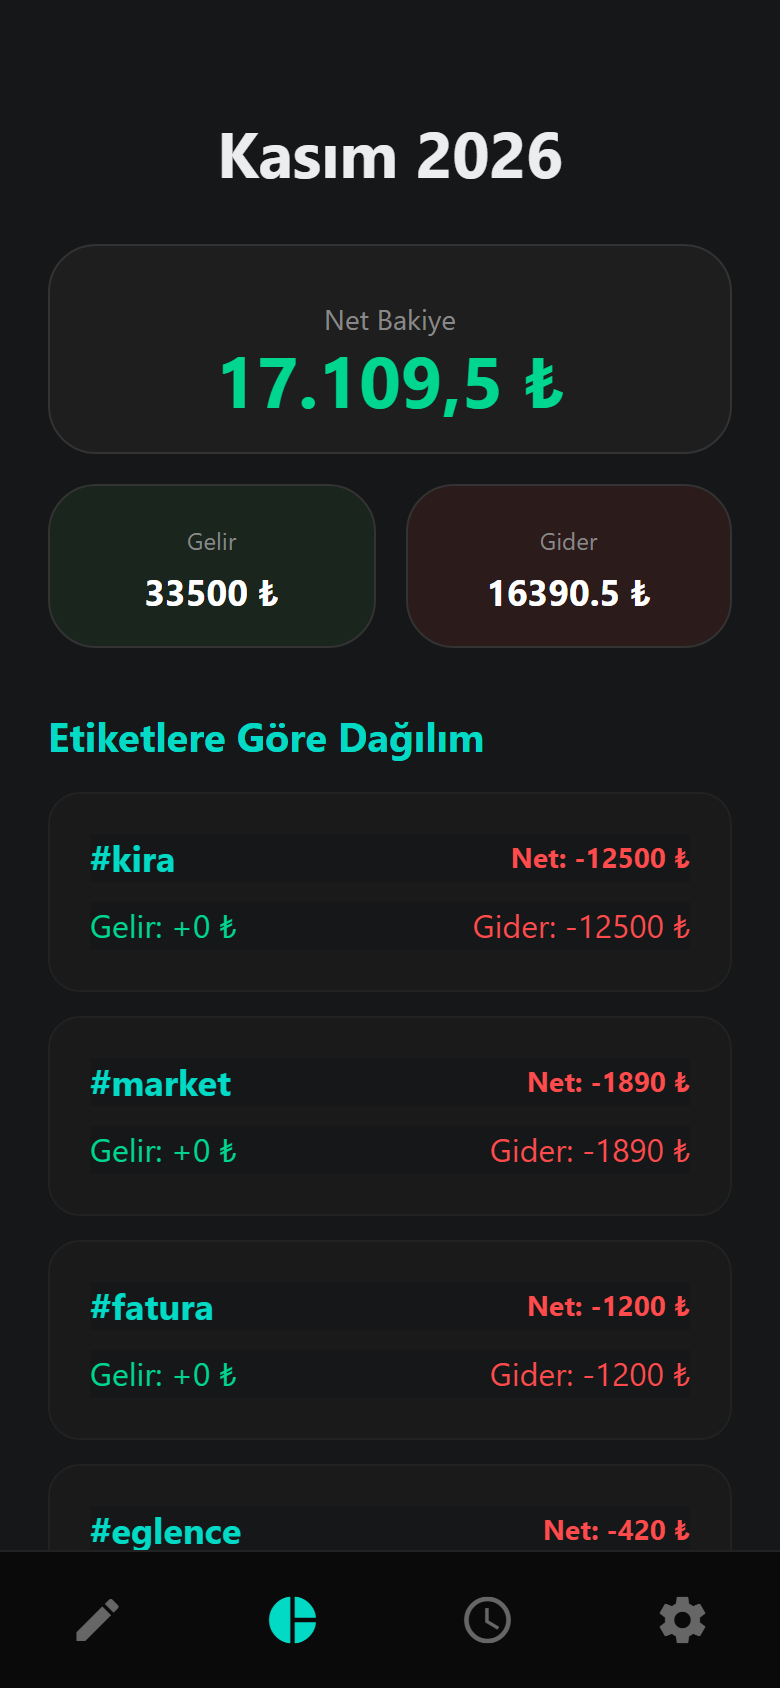
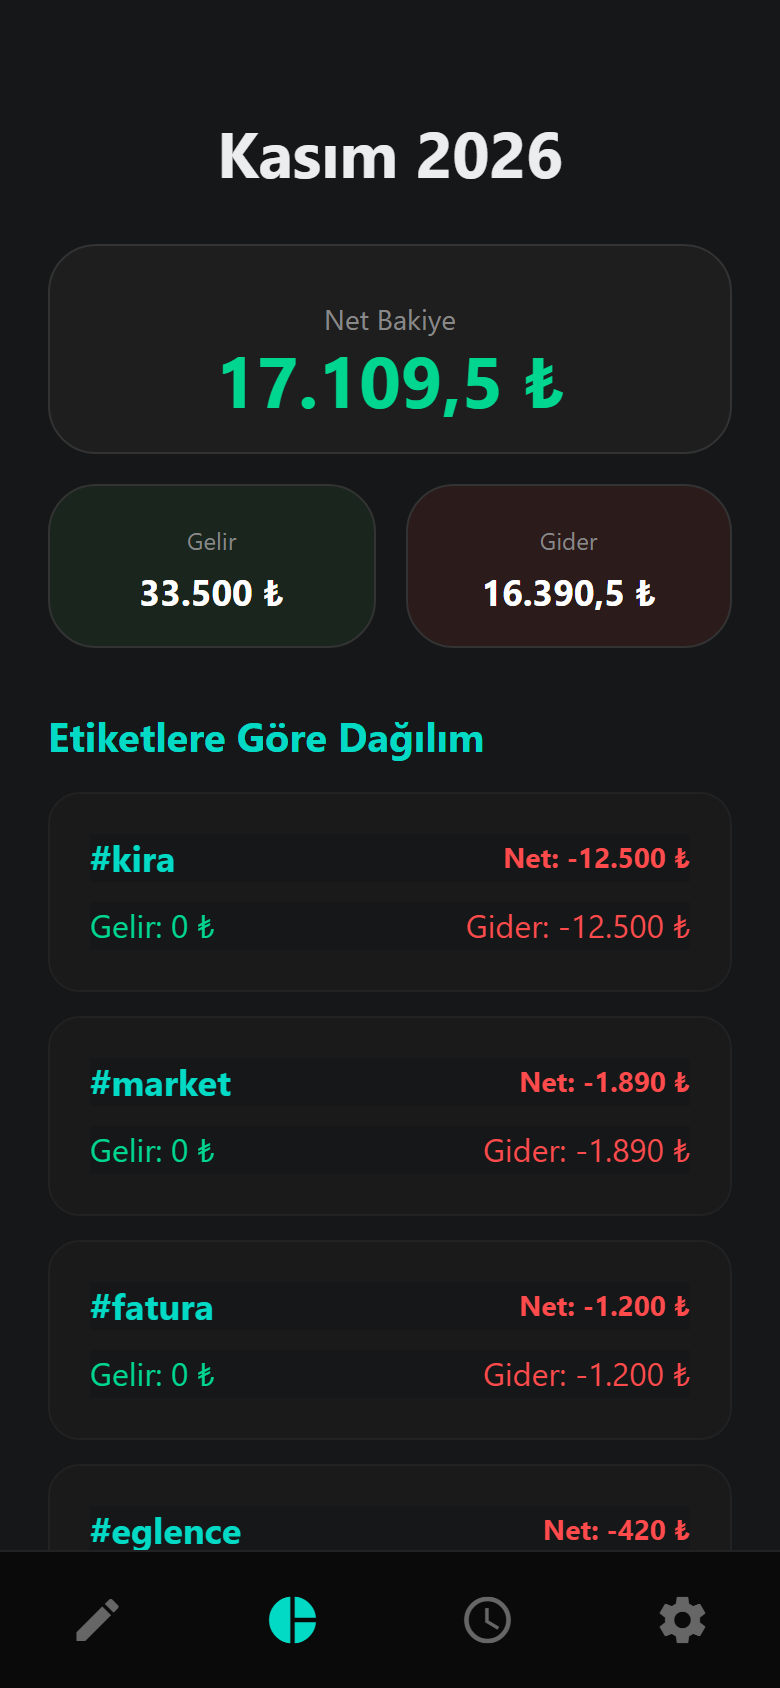
fix: format every amount the same way
Amounts were shown four ways on the same screens: raw (33500, 185.5),
locale-grouped (17.109,5), with TL or with ₺. Summed decimals could also
show floating point noise (0.30000000000000004).

formatMoney() now groups by the locale, keeps at most two decimals and
puts ₺ after the number everywhere; +/- signs are explicit. 5 new tests
(23 total), screenshots updated.

diff --git a/app/(tabs)/index.tsx b/app/(tabs)/index.tsx
@@ -8,6 +8,7 @@ import { LANGUAGES } from '@/src/i18n/translations';
 import { saveNote, getNoteByDate, appendNote, TransactionRecord, getTransactionsByMonth, clearAllData, getAllTransactions } from '@/src/db/DB';
 import { saveThemeColor, getThemeColor, getLabels, saveLabels } from '@/src/db/SettingsManager';
 import { parseTransactions } from '@/src/utils/parser';
+import { formatMoney } from '@/src/utils/format';
 import { IconSymbol } from '@/components/ui/icon-symbol';
 
 const { width: SCREEN_WIDTH } = Dimensions.get('window');
@@ -30,6 +31,7 @@ interface MonthSummary {
 
 export default function MasterPagerScreen() {
   const { t, language, setLanguage } = useLanguage();
+  const money = (value: number, signed = false) => formatMoney(value, t.locale, t.currency, signed);
   const scrollRef = useRef<ScrollView>(null);
   const [activeIndex, setActiveIndex] = useState(0);
   const [accentColor, setAccentColor] = useState(UI_COLORS.primary);
@@ -286,7 +288,7 @@ export default function MasterPagerScreen() {
                       </ThemedText>
                     </ThemedView>
                     <ThemedText style={[styles.txType, item.type === 'gelir' ? styles.income : styles.expense]}>
-                      {item.type === 'gelir' ? '+' : '-'} {item.amount} {t.currency}
+                      {money(item.type === 'gelir' ? item.amount : -item.amount, true)}
                     </ThemedText>
                     <TouchableOpacity onPress={() => handleDeleteTx(index)} style={{ marginLeft: 15, padding: 5 }}>
                       <IconSymbol name="trash" size={20} color={UI_COLORS.error} />
@@ -341,11 +343,11 @@ export default function MasterPagerScreen() {
           <ThemedView style={styles.cardContainer}>
             <ThemedView style={styles.balanceCard}>
               <ThemedText style={styles.cardLabel}>{t.netBalance}</ThemedText>
-              <ThemedText style={[styles.cardValue, summary.balance < 0 ? styles.expenseText : styles.incomeText]}>{summary.balance.toLocaleString(t.locale)} ₺</ThemedText>
+              <ThemedText style={[styles.cardValue, summary.balance < 0 ? styles.expenseText : styles.incomeText]}>{money(summary.balance)}</ThemedText>
             </ThemedView>
             <ThemedView style={styles.statsRow}>
-              <ThemedView style={[styles.statItem, styles.incomeCard]}><ThemedText style={styles.statLabel}>{t.income}</ThemedText><ThemedText style={styles.statValue}>{summary.income} ₺</ThemedText></ThemedView>
-              <ThemedView style={[styles.statItem, styles.expenseCard]}><ThemedText style={styles.statLabel}>{t.expense}</ThemedText><ThemedText style={styles.statValue}>{summary.expense} ₺</ThemedText></ThemedView>
+              <ThemedView style={[styles.statItem, styles.incomeCard]}><ThemedText style={styles.statLabel}>{t.income}</ThemedText><ThemedText style={styles.statValue}>{money(summary.income)}</ThemedText></ThemedView>
+              <ThemedView style={[styles.statItem, styles.expenseCard]}><ThemedText style={styles.statLabel}>{t.expense}</ThemedText><ThemedText style={styles.statValue}>{money(summary.expense)}</ThemedText></ThemedView>
             </ThemedView>
           </ThemedView>
           <ThemedText type="subtitle" style={[styles.listHeader, { color: accentColor }]}>{t.byTags}</ThemedText>
@@ -357,12 +359,12 @@ export default function MasterPagerScreen() {
                 <ThemedView style={styles.tagHeaderRow}>
                   <ThemedText style={[styles.tagSummaryTitle, { color: accentColor }]}>{tagLabel(item.tag)}</ThemedText>
                   <ThemedText style={[styles.tagSummaryBalance, item.balance < 0 ? styles.expenseText : styles.incomeText]}>
-                    {t.net}: {item.balance > 0 ? '+' : ''}{item.balance} ₺
+                    {t.net}: {money(item.balance, true)}
                   </ThemedText>
                 </ThemedView>
                 <ThemedView style={styles.tagStatsRow}>
-                  <ThemedText style={styles.incomeText}>{t.income}: +{item.income} ₺</ThemedText>
-                  <ThemedText style={styles.expenseText}>{t.expense}: -{item.expense} ₺</ThemedText>
+                  <ThemedText style={styles.incomeText}>{t.income}: {money(item.income, true)}</ThemedText>
+                  <ThemedText style={styles.expenseText}>{t.expense}: {money(-item.expense)}</ThemedText>
                 </ThemedView>
               </ThemedView>
             )}
@@ -383,19 +385,19 @@ export default function MasterPagerScreen() {
                 <ThemedView style={{ flexDirection: 'row', justifyContent: 'space-between', alignItems: 'center', marginBottom: 15 }}>
                   <ThemedText style={{ fontSize: 20, fontWeight: 'bold', color: accentColor, textTransform: 'capitalize' }}>{item.displayMonth}</ThemedText>
                   <ThemedText style={[styles.cardValue, { fontSize: 20 }, item.balance < 0 ? styles.expenseText : styles.incomeText]}>
-                    {item.balance > 0 ? '+' : ''}{item.balance.toLocaleString(t.locale)} ₺
+                    {money(item.balance, true)}
                   </ThemedText>
                 </ThemedView>
                 <ThemedView style={{ flexDirection: 'row', gap: 15, marginBottom: 15 }}>
-                  <ThemedText style={styles.incomeText}>{t.income}: {item.income.toLocaleString(t.locale)} ₺</ThemedText>
-                  <ThemedText style={styles.expenseText}>{t.expense}: {item.expense.toLocaleString(t.locale)} ₺</ThemedText>
+                  <ThemedText style={styles.incomeText}>{t.income}: {money(item.income)}</ThemedText>
+                  <ThemedText style={styles.expenseText}>{t.expense}: {money(item.expense)}</ThemedText>
                 </ThemedView>
                 
                 {item.tags.map(tg => (
                   <ThemedView key={tg.tag} style={{ flexDirection: 'row', justifyContent: 'space-between', paddingVertical: 8, borderTopWidth: 0.5, borderTopColor: '#333' }}>
                     <ThemedText style={{ fontWeight: '500', color: '#CCC' }}>{tagLabel(tg.tag)}</ThemedText>
                     <ThemedText style={tg.balance < 0 ? styles.expenseText : styles.incomeText}>
-                      {tg.balance > 0 ? '+' : ''}{tg.balance} ₺
+                      {money(tg.balance, true)}
                     </ThemedText>
                   </ThemedView>
                 ))}

diff --git a/tests/format.test.ts b/tests/format.test.ts
@@ -1,0 +1,28 @@
+import { formatMoney } from '@/src/utils/format';
+
+describe('formatMoney', () => {
+  it('groups thousands and uses a decimal comma in Turkish', () => {
+    expect(formatMoney(17109.5, 'tr-TR', '₺')).toBe('17.109,5 ₺');
+    expect(formatMoney(33500, 'tr-TR', '₺')).toBe('33.500 ₺');
+  });
+
+  it('uses the English separators in English', () => {
+    expect(formatMoney(16390.5, 'en-US', '₺')).toBe('16,390.5 ₺');
+  });
+
+  it('adds + only when asked, and - for negatives', () => {
+    expect(formatMoney(1500, 'tr-TR', '₺', true)).toBe('+1.500 ₺');
+    expect(formatMoney(1500, 'tr-TR', '₺')).toBe('1.500 ₺');
+    expect(formatMoney(-12500, 'tr-TR', '₺', true)).toBe('-12.500 ₺');
+  });
+
+  it('never shows a sign on zero', () => {
+    expect(formatMoney(0, 'tr-TR', '₺', true)).toBe('0 ₺');
+    expect(formatMoney(-0, 'tr-TR', '₺')).toBe('0 ₺');
+  });
+
+  it('hides floating point noise from summed amounts', () => {
+    expect(formatMoney(0.1 + 0.2, 'en-US', '₺')).toBe('0.3 ₺');
+    expect(formatMoney(185.5 + 45 + 640.25, 'tr-TR', '₺')).toBe('870,75 ₺');
+  });
+});

diff --git a/src/utils/format.ts b/src/utils/format.ts
@@ -1,0 +1,13 @@
+/**
+ * Formats an amount of money the same way everywhere in the app:
+ * grouped by the locale, at most two decimals, the currency after it.
+ *   formatMoney(17109.5, 'tr-TR', '₺')       -> "17.109,5 ₺"
+ *   formatMoney(1500, 'en-US', '₺', true)    -> "+1,500 ₺"
+ *   formatMoney(-45, 'tr-TR', '₺')           -> "-45 ₺"
+ */
+export const formatMoney = (value: number, locale: string, currency: string, signed = false): string => {
+  const rounded = Math.round(value * 100) / 100;
+  const number = new Intl.NumberFormat(locale, { maximumFractionDigits: 2 }).format(Math.abs(rounded));
+  const sign = rounded < 0 ? '-' : signed && rounded > 0 ? '+' : '';
+  return `${sign}${number} ${currency}`;
+};

diff --git a/src/i18n/translations.ts b/src/i18n/translations.ts
@@ -7,7 +7,7 @@ export const LANGUAGES: { code: Language; label: string }[] = [
 
 const tr = {
   locale: 'tr-TR',
-  currency: 'TL',
+  currency: '₺',
   dailyTitle: 'Günlük',
   transaction: 'İşlem',
   noTransactions: 'Henüz işlem yok.',
@@ -51,7 +51,7 @@ export type Translation = typeof tr;
 
 const en: Translation = {
   locale: 'en-US',
-  currency: 'TL',
+  currency: '₺',
   dailyTitle: 'Daily',
   transaction: 'Transaction',
   noTransactions: 'No transactions yet.',
